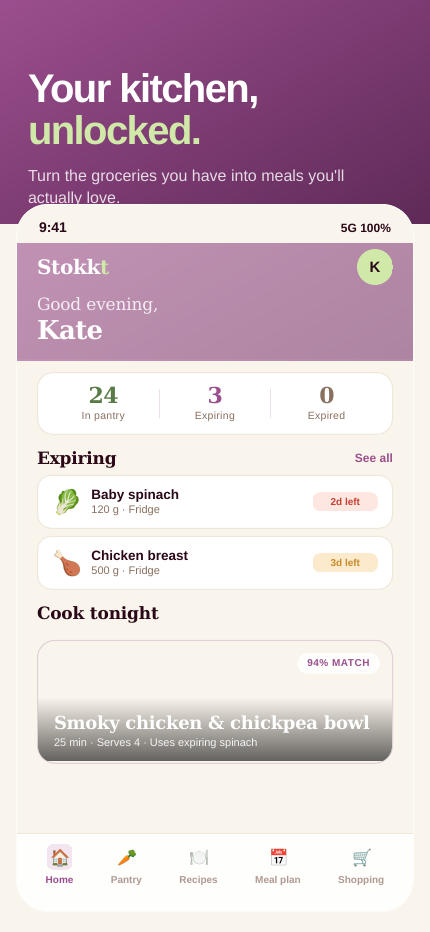
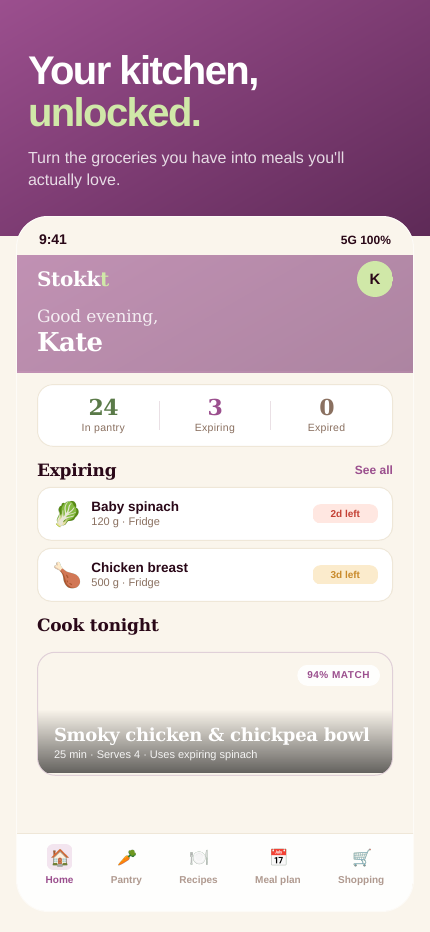
New screenshots, $9.99 pricing, join page

Changed region(s): [[0.0, 0.0622, 1.0, 0.6845], [0.0907, 0.6845, 0.9372, 0.8401]]

diff --git a/screenshots_v2.html b/screenshots_v2.html
@@ -65,8 +65,8 @@
   .hero {
     position: absolute;
     top: 0; left: 0; right: 0;
-    height: 224px;
-    padding: 68px 28px 0;
+    height: 236px;
+    padding: 50px 28px 0;
     color: #fff;
     overflow: hidden;
   }
@@ -91,7 +91,7 @@
   .pane {
     position: absolute;
     left: 16px; right: 16px;
-    top: 204px;
+    top: 216px;
     bottom: 20px;
     background: var(--linen);
     border-radius: 32px;
@@ -114,23 +114,25 @@
 
   /* Per-screen hero backgrounds */
   .screen--home     .hero { background: linear-gradient(150deg, #9B4F8E 0%, #7A3A70 55%, #5E2A57 100%); }
-  .screen--pantry   .hero { background: linear-gradient(150deg, #D95F2B 0%, #B84A1E 55%, #8E3815 100%); }
+  .screen--pantry   .hero { background: linear-gradient(150deg, #B96BA9 0%, #9B4F8E 55%, #7A3A70 100%); }
+  .screen--shopping .hero { background: linear-gradient(150deg, #7A9A5E 0%, #5A7A48 55%, #3F5A30 100%); }
+  .screen--household .hero { background: linear-gradient(150deg, #7A3A70 0%, #5E2A57 55%, #2A0818 100%); }
   .screen--recipes  .hero { background: linear-gradient(150deg, #5E2A57 0%, #9B4F8E 60%, #B96BA9 100%); }
   .screen--mealplan .hero { background: linear-gradient(150deg, #5A7A48 0%, #3F5A30 55%, #2B3E21 100%); }
   .screen--pro      .hero { background: linear-gradient(155deg, #2A0818 0%, #5E2A57 50%, #9B4F8E 100%); }
 
   .chip {
-    display: inline-flex; align-items: center;
+    display: inline-block; line-height: 1.2;
     padding: 7px 12px;
-    border-radius: 999px;
+    border-radius: 20px;
     background: var(--warm);
-    border: 1px solid var(--border);
+    border: none; box-shadow: inset 0 0 0 1px var(--border);
     font-size: 12px;
     font-weight: 600;
     color: var(--ink);
     white-space: nowrap;
   }
-  .chip--active { background: var(--plum); color: #fff; border-color: var(--plum); }
+  .chip--active { background: var(--plum); color: #fff; box-shadow: none; }
 
   /* ====== SCREEN 1 — HOME =============================================== */
   /* The actual app shows a plum band header with wordmark + avatar, then a
@@ -268,6 +270,54 @@
     font-size: 14px;
   }
   .tabbar .tab.active .ico { background: #F3E5EF; }
+
+  /* Lime header tiles — Receipt · Email · Scan · Add (Pantry) */
+  .tiles { display: flex; gap: 5px; position: absolute; left: 192px; top: 50px; }
+  .tile {
+    width: 42px; flex: none; padding: 5px 0 4px; border-radius: 10px; background: var(--lime); border: 1px solid #A8C878;
+    display: flex; flex-direction: column; align-items: center; gap: 3px; font-size: 8.5px; font-weight: 700; color: var(--ink);
+  }
+  .tile .ib { width: 22px; height: 22px; border-radius: 7px; background: rgba(42,8,24,.08); display: flex; align-items: center; justify-content: center; font-size: 12px; }
+  .tile--dark { background: var(--ink); border-color: var(--ink); color: #fff; }
+  .tile--dark .ib { background: rgba(255,255,255,.14); color: #fff; }
+
+  /* ====== SCREEN 6 — SHOPPING =========================================== */
+  .s-label { padding: 0 20px; font-size: 11.5px; font-weight: 700; color: var(--muted); margin: 6px 0 8px; }
+  .q-row { padding: 0 20px; display: flex; gap: 9px; }
+  .q-tile {
+    flex: 1; padding: 10px 0 9px; border-radius: 12px; background: var(--lime); border: 1px solid #A8C878;
+    display: flex; flex-direction: column; align-items: center; gap: 5px; font-size: 11.5px; font-weight: 700; color: var(--ink);
+  }
+  .q-tile .ib { width: 30px; height: 30px; border-radius: 8px; background: rgba(42,8,24,.08); display: flex; align-items: center; justify-content: center; font-size: 15px; }
+  .reg-row { padding: 0 20px; display: flex; gap: 7px; overflow: hidden; }
+  .reg { display: inline-block; line-height: 1.2; padding: 6px 11px; border-radius: 20px; background: #fff; box-shadow: inset 0 0 0 1.5px var(--border); font-size: 12px; font-weight: 600; color: var(--muted); white-space: nowrap; }
+  .reg--due { background: var(--plum); box-shadow: none; color: #fff; }
+  .aisle { padding: 12px 20px 6px; font-size: 10.5px; font-weight: 700; color: var(--muted); letter-spacing: .8px; }
+  .si { margin: 0 20px 6px; display: flex; align-items: center; gap: 11px; background: #fff; border: .5px solid var(--border); border-radius: 12px; padding: 8px 13px; }
+  .si .cb { width: 20px; height: 20px; border-radius: 10px; border: 1.5px solid var(--sage-line); flex: none; }
+  .si .cb--on { background: var(--plum); border-color: var(--plum); color: #fff; font-size: 11px; font-weight: 700; display: flex; align-items: center; justify-content: center; }
+  .si .ec { width: 32px; height: 32px; border-radius: 16px; background: var(--sage-tint); display: flex; align-items: center; justify-content: center; font-size: 16px; flex: none; }
+  .si .nm { font-size: 13.5px; font-weight: 600; color: var(--ink); }
+  .si .q  { font-size: 11px; color: var(--muted); margin-top: 1px; }
+  .si--done { opacity: .55; }
+  .si--done .nm { text-decoration: line-through; color: #C0A8B8; }
+
+  /* ====== SCREEN 7 — SHARE YOUR KITCHEN ================================= */
+  .hh-head { padding: 8px 20px 12px; display: flex; align-items: center; gap: 10px; }
+  .hh-head .bk { font-size: 22px; color: var(--ink); }
+  .hh-head h2 { font-family: "Playfair Display", Georgia, serif; font-size: 24px; letter-spacing: -.6px; font-weight: 600; }
+  .hh-card { margin: 0 20px 12px; background: #fff; border: .5px solid var(--border); border-radius: 14px; overflow: hidden; }
+  .hh-cap { padding: 0 24px 7px; font-size: 10.5px; font-weight: 700; color: var(--muted); letter-spacing: .8px; }
+  .hh-row { display: flex; align-items: center; gap: 12px; padding: 10px 14px; border-bottom: .5px solid var(--border); }
+  .hh-row:last-child { border-bottom: none; }
+  .hh-av { width: 36px; height: 36px; border-radius: 18px; display: flex; align-items: center; justify-content: center; font-weight: 700; font-size: 15px; flex: none; }
+  .hh-ic { width: 32px; height: 32px; border-radius: 16px; background: var(--sage-tint); display: flex; align-items: center; justify-content: center; font-size: 15px; flex: none; }
+  .hh-row .nm { font-size: 14px; font-weight: 600; color: var(--ink); }
+  .hh-row .sb { font-size: 11.5px; color: var(--muted); margin-top: 1px; }
+  .hh-row .ok { margin-left: auto; font-size: 10.5px; font-weight: 700; color: var(--olive); background: var(--sage-tint); border-radius: 8px; padding: 3px 8px; }
+  .hh-pro { margin: 0 20px; background: #F5EAF8; border: 1px solid #E5CFDF; border-radius: 14px; padding: 12px 15px; display: flex; gap: 11px; align-items: center; }
+  .hh-pro .t { font-size: 13.5px; font-weight: 700; color: var(--ink); }
+  .hh-pro .s { font-size: 11.5px; color: var(--muted); margin-top: 1px; }
 
   /* ====== SCREEN 2 — PANTRY ============================================= */
   .p-head { padding: 10px 20px 8px; display: flex; justify-content: space-between; align-items: flex-end; }
@@ -536,7 +586,7 @@
 <section id="s2" class="screen screen--pantry">
   <div class="hero">
     <h1>$3,000 a year,<br>saved from the bin.</h1>
-    <p>Stokkt tracks what you have and nudges you before it spoils.</p>
+    <p>Scan your shop. Stokkt warns you before anything spoils.</p>
   </div>
   <div class="pane">
     <div class="sbar">
@@ -548,7 +598,12 @@
         <h2>Pantry</h2>
         <div class="count">24 items  ·  3 expiring</div>
       </div>
-      <div class="addbtn">+</div>
+      <div class="tiles">
+        <div class="tile"><div class="ib">🧾</div>Receipt</div>
+        <div class="tile"><div class="ib">✉</div>Email</div>
+        <div class="tile"><div class="ib">▥</div>Scan</div>
+        <div class="tile tile--dark"><div class="ib">+</div>Add</div>
+      </div>
     </div>
     <div class="p-search"><span class="emoji">🔎</span>  Search your pantry…</div>
     <div class="p-chips">
@@ -743,59 +798,117 @@
 <section id="s5" class="screen screen--pro">
   <div class="hero" style="height: 300px; padding-top: 90px;">
     <h1 style="font-size: 42px;">Cook smarter.<br><span class="accent">Waste less.</span></h1>
-    <p>Stokkt Pro — free for 7 days, then $7.99/month AUD.</p>
+    <p>Stokkt Pro — free for 7 days, then $9.99/month AUD.</p>
   </div>
 
   <div class="pro-wrap">
     <div class="pro-tag">★ STOKKT PRO</div>
-    <div class="pro-title">Unlimited recipes,<br>full-week planning.</div>
-    <div class="pro-anchor">Pays for itself in one saved meal.</div>
+    <div class="pro-title">Scan it. Plan it.<br>Share it.</div>
+    <div class="pro-anchor">One subscription covers two.</div>
 
     <div class="pro-price-row">
       <div class="pro-pc">
         <div class="plabel">Monthly</div>
-        <div class="pval">$7.99 /mo</div>
+        <div class="pval">$9.99 /mo</div>
+        <div class="ptag" style="color: var(--muted)">Billed monthly</div>
       </div>
       <div class="pro-pc pc-annual">
-        <div class="badge">BEST VALUE</div>
+        <div class="badge">SAVE 33%</div>
         <div class="plabel">Annual</div>
         <div class="pval">$79.99 /yr</div>
-        <div class="ptag">2 months free</div>
+        <div class="ptag">Just $6.67/mo</div>
       </div>
     </div>
 
     <div class="pro-features">
-      <div class="pro-feat">
-        <div class="tick">&#x2713;</div>
-        <div class="tx">
-          <div class="t">Unlimited AI recipes</div>
-          <div class="s">Generate as many smart, pantry-matched recipes as you like.</div>
-        </div>
-      </div>
-      <div class="pro-feat">
-        <div class="tick">&#x2713;</div>
-        <div class="tx">
-          <div class="t">Full 7-day meal planner</div>
-          <div class="s">Plan every meal for the full week ahead.</div>
-        </div>
-      </div>
-      <div class="pro-feat">
-        <div class="tick">&#x2713;</div>
-        <div class="tx">
-          <div class="t">Cost-per-serve estimates</div>
-          <div class="s">See what tonight's dinner will cost before you cook.</div>
-        </div>
-      </div>
-      <div class="pro-feat">
-        <div class="tick">&#x2713;</div>
-        <div class="tx">
-          <div class="t">Save every recipe you love</div>
-          <div class="s">No caps. Build a cookbook that's actually yours.</div>
-        </div>
-      </div>
+      <div class="pro-feat"><div class="tick">&#x2713;</div><div class="tx">
+        <div class="t">Unlimited receipt scans</div><div class="s">Your whole shop in one photo — no monthly cap.</div></div></div>
+      <div class="pro-feat"><div class="tick">&#x2713;</div><div class="tx">
+        <div class="t">7-day meal plans</div><div class="s">Every meal, plus a shopping list for what's missing.</div></div></div>
+      <div class="pro-feat"><div class="tick">&#x2713;</div><div class="tx">
+        <div class="t">One-tap Clear-Out</div><div class="s">A plan that uses up the fridge before the next shop.</div></div></div>
+      <div class="pro-feat"><div class="tick">&#x2713;</div><div class="tx">
+        <div class="t">Share your kitchen</div><div class="s">Invite the person you cook with — one subscription, two people.</div></div></div>
     </div>
 
     <div class="pro-fine">Cancel anytime. Manage in Apple ID Account Settings.</div>
     <div class="pro-cta">Try Pro free for 7 days<span class="arrow"> →</span></div>
   </div>
-</sect
+</section>
+
+
+<!-- ======= SCREEN 6 — SHOPPING ======================================= -->
+<section id="s6" class="screen screen--shopping">
+  <div class="hero">
+    <h1>The list that<br><span class="accent">writes itself.</span></h1>
+    <p>It learns your regulars and shops your meal plan for you.</p>
+  </div>
+  <div class="pane">
+    <div class="sbar"><span>9:41</span><span class="sicons">5G 100%</span></div>
+    <div class="p-head"><div><h2>Shopping</h2><div class="count">9 items to get  ·  2 collected</div></div></div>
+    <div class="s-label">Quick add</div>
+    <div class="q-row">
+      <div class="q-tile"><div class="ib">↻</div>Last shop</div>
+      <div class="q-tile"><div class="ib">📅</div>Meal plan</div>
+      <div class="q-tile"><div class="ib">🧺</div>Pantry</div>
+    </div>
+    <div class="s-label" style="margin-top:14px">🔁  Your regulars · tap to add</div>
+    <div class="reg-row">
+      <span class="reg reg--due">🥛  Milk · due</span>
+      <span class="reg">🍌  Bananas</span>
+      <span class="reg">🥚  Eggs</span>
+      <span class="reg">🍞  Sourdough</span>
+    </div>
+    <div class="aisle">FRUIT &amp; VEG (3)</div>
+    <div class="si"><div class="cb"></div><div class="ec">🥬</div><div><div class="nm">Baby spinach</div><div class="q">100 g  ·  For Smoky chicken bowl</div></div></div>
+    <div class="si"><div class="cb"></div><div class="ec">🍋</div><div><div class="nm">Lemons</div><div class="q">2 item</div></div></div>
+    <div class="si"><div class="cb"></div><div class="ec">🧅</div><div><div class="nm">Brown onions</div><div class="q">1 kg</div></div></div>
+    <div class="aisle">MEAT &amp; SEAFOOD (1)</div>
+    <div class="si"><div class="cb"></div><div class="ec">🍗</div><div><div class="nm">Chicken thighs</div><div class="q">800 g  ·  For 2 meals</div></div></div>
+    <div class="aisle">COLLECTED (2)</div>
+    <div class="si si--done"><div class="cb cb--on">✓</div><div class="ec">🧀</div><div><div class="nm">Tasty cheese</div><div class="q">1 item</div></div></div>
+    <div class="tabbar">
+      <div class="tab"><div class="ico">🏠</div>Home</div>
+      <div class="tab"><div class="ico">🥕</div>Pantry</div>
+      <div class="tab"><div class="ico">🍽</div>Recipes</div>
+      <div class="tab"><div class="ico">📅</div>Meal plan</div>
+      <div class="tab active"><div class="ico">🛒</div>Shopping</div>
+    </div>
+  </div>
+</section>
+
+<!-- ======= SCREEN 7 — SHARE YOUR KITCHEN ============================= -->
+<section id="s7" class="screen screen--household">
+  <div class="hero">
+    <h1>One kitchen.<br><span class="accent">Two cooks.</span></h1>
+    <p>Share it all with the person you cook with — live.</p>
+  </div>
+  <div class="pane">
+    <div class="sbar"><span>9:41</span><span class="sicons">5G 100%</span></div>
+    <div class="hh-head"><span class="bk">‹</span><h2>Household</h2></div>
+    <div class="hh-cap">YOUR KITCHEN</div>
+    <div class="hh-card">
+      <div class="hh-row"><div class="hh-av" style="background:#D0E8A8;color:#2A0818">T</div><div><div class="nm">Tim</div><div class="sb">Owner</div></div></div>
+      <div class="hh-row"><div class="hh-av" style="background:#F3E5EF;color:#9B4F8E">K</div><div><div class="nm">Kate</div><div class="sb">Member · joined today</div></div></div>
+    </div>
+    <div class="hh-cap">SHARED BETWEEN YOU</div>
+    <div class="hh-card">
+      <div class="hh-row"><div class="hh-ic">🧺</div><div><div class="nm">Pantry</div><div class="sb">24 items · both see every scan</div></div><span class="ok">Live</span></div>
+      <div class="hh-row"><div class="hh-ic">📅</div><div><div class="nm">Meal plan</div><div class="sb">7 days planned</div></div><span class="ok">Live</span></div>
+      <div class="hh-row"><div class="hh-ic">🛒</div><div><div class="nm">Shopping list</div><div class="sb">9 items to get</div></div><span class="ok">Live</span></div>
+      <div class="hh-row"><div class="hh-ic">📖</div><div><div class="nm">Saved recipes</div><div class="sb">18 recipes</div></div><span class="ok">Live</span></div>
+      <div class="hh-row"><div class="hh-ic">⚠</div><div><div class="nm">Allergens</div><div class="sb">Every plan is safe for both of you</div></div><span class="ok">On</span></div>
+    </div>
+    <div class="hh-pro"><div style="font-size:20px">★</div><div><div class="t">Pro, shared</div><div class="s">One subscription covers you both.</div></div></div>
+    <div class="tabbar">
+      <div class="tab"><div class="ico">🏠</div>Home</div>
+      <div class="tab"><div class="ico">🥕</div>Pantry</div>
+      <div class="tab"><div class="ico">🍽</div>Recipes</div>
+      <div class="tab"><div class="ico">📅</div>Meal plan</div>
+      <div class="tab"><div class="ico">🛒</div>Shopping</div>
+    </div>
+  </div>
+</section>
+
+</body>
+</html>

diff --git a/index.html b/index.html
@@ -196,11 +196,13 @@
         <svg viewBox="0 0 24 24" fill="none" stroke="currentColor" stroke-width="2.5" stroke-linecap="round" stroke-linejoin="round"><polyline points="15 18 9 12 15 6"/></svg>
       </button>
       <div class="ss-window">
-        <div class="ss-slide active" data-idx="0"><div class="ss-frame"><img src="assets/screenshots/home.png?v=2" alt="Stokkt home screen showing personal greeting, pantry stats, and what's expiring" loading="lazy" /></div><div class="ss-caption">Home</div><div class="ss-sub">Your kitchen, at a glance</div></div>
-        <div class="ss-slide" data-idx="1"><div class="ss-frame"><img src="assets/screenshots/pantry.png?v=2" alt="Stokkt pantry with receipt-scanned items" loading="lazy" /></div><div class="ss-caption">Pantry</div><div class="ss-sub">Your whole shop, scanned in seconds</div></div>
-        <div class="ss-slide" data-idx="2"><div class="ss-frame"><img src="assets/screenshots/recipes.png?v=2" alt="Stokkt recipes matched to pantry with cost-per-serve" loading="lazy" /></div><div class="ss-caption">Recipes</div><div class="ss-sub">Matched to what you already have</div></div>
-        <div class="ss-slide" data-idx="3"><div class="ss-frame"><img src="assets/screenshots/mealplan.png?v=2" alt="Stokkt meal plan for the week with weekly cost summary" loading="lazy" /></div><div class="ss-caption">Meal Plan</div><div class="ss-sub">A full week, in one tap</div></div>
-        <div class="ss-slide" data-idx="4"><div class="ss-frame"><img src="assets/screenshots/pro.png?v=2" alt="Stokkt Pro features and pricing" loading="lazy" /></div><div class="ss-caption">Stokkt Pro</div><div class="ss-sub">Unlimited recipes, full 7-day plan</div></div>
+        <div class="ss-slide active" data-idx="0"><div class="ss-frame"><img src="assets/screenshots/home.png?v=3" alt="Stokkt home screen showing a personal greeting, pantry stats and what is expiring" loading="lazy" /></div><div class="ss-caption">Home</div><div class="ss-sub">Your kitchen, at a glance</div></div>
+        <div class="ss-slide" data-idx="1"><div class="ss-frame"><img src="assets/screenshots/pantry.png?v=3" alt="Stokkt pantry with receipt-scanned items and Receipt, Email, Scan and Add buttons" loading="lazy" /></div><div class="ss-caption">Pantry</div><div class="ss-sub">Your whole shop, scanned in seconds</div></div>
+        <div class="ss-slide" data-idx="2"><div class="ss-frame"><img src="assets/screenshots/recipes.png?v=3" alt="Stokkt recipes matched to what is in the pantry, with cost per serve" loading="lazy" /></div><div class="ss-caption">Recipes</div><div class="ss-sub">Matched to what you already have</div></div>
+        <div class="ss-slide" data-idx="3"><div class="ss-frame"><img src="assets/screenshots/mealplan.png?v=3" alt="Stokkt meal plan for the week with weekly cost summary" loading="lazy" /></div><div class="ss-caption">Meal Plan</div><div class="ss-sub">A full week, in one tap</div></div>
+        <div class="ss-slide" data-idx="4"><div class="ss-frame"><img src="assets/screenshots/shopping.png?v=3" alt="Stokkt shopping list with Quick add, your regulars and items for your meal plan" loading="lazy" /></div><div class="ss-caption">Shopping</div><div class="ss-sub">The list that writes itself</div></div>
+        <div class="ss-slide" data-idx="5"><div class="ss-frame"><img src="assets/screenshots/household.png?v=3" alt="Stokkt household screen showing a pantry, meal plan, shopping list and recipes shared between two people" loading="lazy" /></div><div class="ss-caption">Share your kitchen</div><div class="ss-sub">One kitchen, two cooks</div></div>
+        <div class="ss-slide" data-idx="6"><div class="ss-frame"><img src="assets/screenshots/pro.png?v=3" alt="Stokkt Pro pricing and the four key upgrades" loading="lazy" /></div><div class="ss-caption">Stokkt Pro</div><div class="ss-sub">Unlimited scans, full week, shared kitchen</div></div>
       </div>
       <button class="ss-arrow" id="ssNext" aria-label="Next screenshot">
         <svg viewBox="0 0 24 24" fill="none" stroke="currentColor" stroke-width="2.5" stroke-linecap="round" stroke-linejoin="round"><polyline points="9 18 15 12 9 6"/></svg>
@@ -212,6 +214,8 @@
       <button class="ss-dot" data-idx="2" aria-label="Show slide 3"></button>
       <button class="ss-dot" data-idx="3" aria-label="Show slide 4"></button>
       <button class="ss-dot" data-idx="4" aria-label="Show slide 5"></button>
+      <button class="ss-dot" data-idx="5" aria-label="Show slide 6"></button>
+      <button class="ss-dot" data-idx="6" aria-label="Show slide 7"></button>
     </div>
   </section>
 
@@ -226,7 +230,7 @@
       <div class="feature-card"><div class="feature-icon"><svg viewBox="0 0 24 24" fill="none" stroke="currentColor" stroke-width="2" stroke-linecap="round" stroke-linejoin="round"><path d="M2 12h20"/><path d="M20 12v8a2 2 0 0 1-2 2H6a2 2 0 0 1-2-2v-8"/><path d="m4 8 16-4"/><path d="m8.86 6.78-.45-1.81a2 2 0 0 1 1.45-2.43l1.94-.48a2 2 0 0 1 2.43 1.46l.45 1.8"/></svg></div><h3 class="feature-title">300,000+ real recipes</h3><p class="feature-desc">Match your pantry to tried-and-tested recipes you can cook right now — or let AI generate something completely original from exactly what you have in stock.</p></div>
       <div class="feature-card"><div class="feature-icon"><svg viewBox="0 0 24 24" fill="none" stroke="currentColor" stroke-width="2" stroke-linecap="round" stroke-linejoin="round"><circle cx="8" cy="21" r="1"/><circle cx="19" cy="21" r="1"/><path d="M2.05 2.05h2l2.66 12.42a2 2 0 0 0 2 1.58h9.78a2 2 0 0 0 1.95-1.57l1.65-7.43H5.12"/></svg></div><h3 class="feature-title">Your list, built for you</h3><p class="feature-desc">Stokkt knows what's running low, what's expired, and what your meal plan needs. Your shopping list writes itself — organised and ready to go.</p></div>
       <div class="feature-card"><div class="feature-icon"><svg viewBox="0 0 24 24" fill="none" stroke="currentColor" stroke-width="2" stroke-linecap="round" stroke-linejoin="round"><path d="M11 20A7 7 0 0 1 9.8 6.1C15.5 5 17 4.48 19.2 2.96a1 1 0 0 1 1.8.66 22.45 22.45 0 0 1-3 12.8C16.62 19.86 13 22 11 20Z"/><path d="M2 21c0-3 1.85-5.36 5.08-6"/></svg></div><h3 class="feature-title">Zero food waste</h3><p class="feature-desc">Push notifications alert you 3 days before anything expires. Expiring items are automatically prioritised in recipe suggestions so they get used, not thrown out.</p></div>
-      <div class="feature-card pro"><div class="feature-icon"><svg viewBox="0 0 24 24" fill="currentColor" stroke="currentColor" stroke-width="2" stroke-linejoin="round"><polygon points="12 2 15.09 8.26 22 9.27 17 14.14 18.18 21.02 12 17.77 5.82 21.02 7 14.14 2 9.27 8.91 8.26 12 2"/></svg></div><h3 class="feature-title">Stokkt Pro</h3><p class="feature-desc">Unlock the full Stokkt experience — unlimited AI recipe generation, the complete 7-day meal planner, unlimited receipt scans, cost-per-serve estimates, and access to 300,000+ real Spoonacular recipes. Try Pro free for 7 days. $7.99/month AUD or $79.99/yr after. Cancel anytime.</p></div>
+      <div class="feature-card pro"><div class="feature-icon"><svg viewBox="0 0 24 24" fill="currentColor" stroke="currentColor" stroke-width="2" stroke-linejoin="round"><polygon points="12 2 15.09 8.26 22 9.27 17 14.14 18.18 21.02 12 17.77 5.82 21.02 7 14.14 2 9.27 8.91 8.26 12 2"/></svg></div><h3 class="feature-title">Stokkt Pro</h3><p class="feature-desc">Four upgrades: unlimited receipt scans, the full 7-day meal planner, one-tap Clear-Outs that use up the fridge, and a shared kitchen — one subscription covers two people. Plus unlimited AI recipes and 300,000+ real recipes. Try Pro free for 7 days, then $9.99/month AUD or $79.99/year. Cancel anytime.</p></div>
     </div>
   </section>
 

diff --git a/join.html b/join.html
@@ -1,0 +1,71 @@
+<!DOCTYPE html>
+<html lang="en-AU">
+<head>
+  <meta charset="UTF-8" />
+  <meta name="viewport" content="width=device-width, initial-scale=1" />
+  <title>Join a Stokkt household</title>
+  <meta name="robots" content="noindex" />
+  <meta property="og:title" content="You've been invited to share a kitchen on Stokkt" />
+  <meta property="og:description" content="One shared pantry, meal plan and shopping list." />
+  <meta property="og:image" content="https://stokkt.com.au/assets/og-image.png" />
+  <link rel="preconnect" href="https://fonts.googleapis.com" />
+  <link rel="preconnect" href="https://fonts.gstatic.com" crossorigin />
+  <link href="https://fonts.googleapis.com/css2?family=Playfair+Display:wght@700&family=DM+Sans:wght@400;500;700&display=swap" rel="stylesheet" />
+  <style>
+    :root { --plum:#9B4F8E; --ink:#2A0818; --lime:#D0E8A8; --linen:#FAF5EC; --muted:#8A7060; --border:#E0D0D8; }
+    * { box-sizing: border-box; margin: 0; padding: 0; }
+    body { min-height: 100vh; background: var(--plum); font-family: "DM Sans", system-ui, sans-serif; color: #fff;
+           display: flex; align-items: center; justify-content: center; padding: 32px 20px; }
+    .wrap { width: 100%; max-width: 420px; text-align: center; }
+    .wordmark { font-family: "Playfair Display", Georgia, serif; font-weight: 700; font-size: 34px; letter-spacing: -1.2px; }
+    .wordmark span { color: var(--lime); }
+    .emoji { font-size: 64px; margin: 28px 0 12px; }
+    h1 { font-family: "Playfair Display", Georgia, serif; font-size: 32px; line-height: 1.15; letter-spacing: -1px; }
+    p.lead { font-size: 16px; line-height: 1.55; color: rgba(255,255,255,.82); margin: 14px 0 24px; }
+    .card { background: var(--linen); color: var(--ink); border-radius: 20px; padding: 22px; }
+    .label { font-size: 11px; font-weight: 700; letter-spacing: 1.2px; text-transform: uppercase; color: var(--muted); }
+    .code { font-size: 40px; font-weight: 700; letter-spacing: 10px; color: var(--plum); margin: 6px 0 4px; }
+    .note { font-size: 13px; color: var(--muted); }
+    .btn { display: block; width: 100%; text-decoration: none; font-weight: 700; font-size: 17px; border-radius: 28px; padding: 16px; margin-top: 14px; }
+    .btn-primary { background: var(--plum); color: #fff; }
+    .btn-lime { background: var(--lime); color: var(--ink); }
+    ol { text-align: left; margin: 20px 4px 0 22px; font-size: 14px; line-height: 1.6; color: rgba(255,255,255,.85); }
+    .missing { margin-top: 24px; font-size: 14px; color: rgba(255,255,255,.85); }
+  </style>
+</head>
+<body>
+  <main class="wrap">
+    <div class="wordmark">Stokk<span>t</span></div>
+    <div class="emoji">🏡</div>
+    <h1>You've been invited to share a kitchen.</h1>
+    <p class="lead">One shared pantry, meal plan, shopping list and saved recipes.</p>
+
+    <div class="card" id="card">
+      <div class="label">Your invite code</div>
+      <div class="code" id="code">——————</div>
+      <div class="note">Valid for 24 hours</div>
+      <a class="btn btn-primary" id="open" href="stokkt://join">Open in Stokkt</a>
+    </div>
+
+    <p class="missing">Don't have Stokkt yet?</p>
+    <a class="btn btn-lime" href="https://apps.apple.com/au/app/stokkt/id6761986531">Download on the App Store</a>
+    <ol>
+      <li>Install Stokkt and create your account.</li>
+      <li>Choose <strong>“Joining an existing household”</strong>.</li>
+      <li>Enter the code above.</li>
+    </ol>
+  </main>
+  <script>
+    (function () {
+      var m = location.search.match(/[?&]code=(\d{6})/);
+      var code = m ? m[1] : null;
+      if (code) {
+        document.getElementById('code').textContent = code;
+        document.getElementById('open').href = 'stokkt://join?code=' + code;
+      } else {
+        document.getElementById('card').style.display = 'none';
+      }
+    })();
+  </script>
+</body>
+</html>
